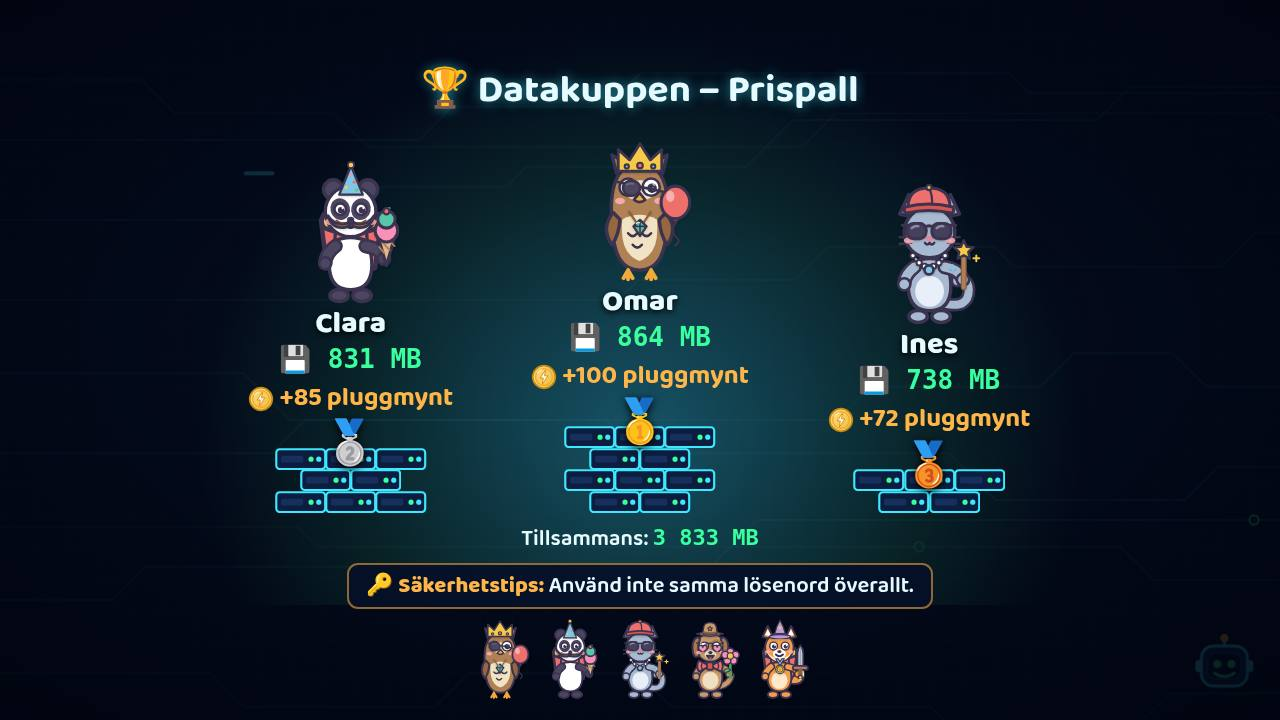
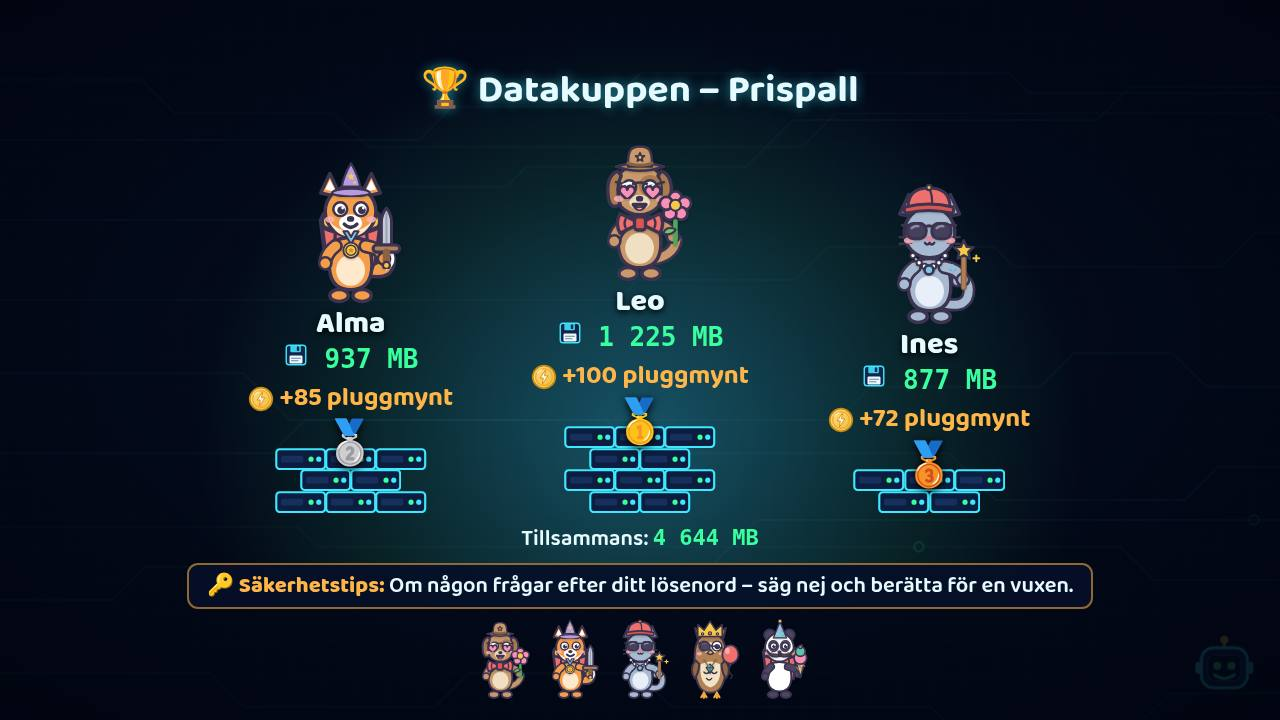
issue #654: projektorn använder #653:s disketikon (dk-ikoner dataIcon) i pallen och statistiken

diff --git a/src/live/formats/datakuppen/dk-pall.js b/src/live/formats/datakuppen/dk-pall.js
@@ -10,7 +10,7 @@
 // toningar, inget regn.
 //
 // Komponenten är den gemensamma kistspelsmodulen (#651): src/live/kistspel/
-// ks-pall.js – här bara byggstenen, "💾 … MB", färgerna, ljuden, prefixet
+// ks-pall.js – här bara byggstenen, disketten (dk-ikoner) + "… MB", färgerna, ljuden, prefixet
 // dknp och säkerhetstipset under totalraden.
 //
 // API
@@ -22,6 +22,7 @@
 import { esc } from "../../../teacher-shared.js";
 import { createFinal as ksCreateFinal } from "../../kistspel/ks-pall.js";
 import { tal, tipAt } from "./dk-proj-scen.js";
+import { dataIcon } from "./dk-ikoner.js";
 
 const FARGER = ["#39ff9f", "#3ee8ff", "#ffb547", "#ff7ad9", "#e6fbff"];
 
@@ -33,7 +34,7 @@ export function createFinal(host, { pool, sound, now = () => Date.now() }) {
     pool, sound,
     cls: "dknp",
     piece: BLOCK,
-    amountHtml: (n) => `💾 ${tal(n)} MB`,
+    amountHtml: (n) => `${dataIcon("1em")} ${tal(n)} MB`,
     colors: FARGER,
     cues: { open: "dkStart", drum: "trumvirvel", win: "fanfar", rain: "dkRegn" },
   });

diff --git a/src/live/formats/datakuppen/dk-statistik.js b/src/live/formats/datakuppen/dk-statistik.js
@@ -17,6 +17,7 @@ import { esc } from "../../../teacher-shared.js";
 import { createDkKoppling } from "./dk-koppling.js";
 import { ensureNatverkCss, natverkHtml, logoHtml } from "./dk-natverk.js";
 import { hackStats } from "./datakuppen-core.js";
+import { dataIcon } from "./dk-ikoner.js";
 import { matchClock, statSummary, standingRows, createRate, hackShare, tal } from "./dk-proj-scen.js";
 
 const PER_KOLUMN = 10;
@@ -84,7 +85,7 @@ export function createStatsView(host, { st, screen = false, deps = null }) {
 
     const hackOff = s.hacking === false;
     $(".dknx-kort-rad").innerHTML = [
-      kort("💾", "Tillsammans", `${tal(sum.totalGold)} MB`),
+      kort(dataIcon("1em"), "Tillsammans", `${tal(sum.totalGold)} MB`),
       kort("✅", "Rätt svar", tal(sum.correct), `av ${tal(sum.answered)} svar`),
       kort("🎯", "Andel rätt", `${sum.share} %`),
       kort("⚡", "Svar/min", perMin == null ? "–" : tal(perMin), perMin == null && !fin ? "mäts …" : "senaste minuten"),
